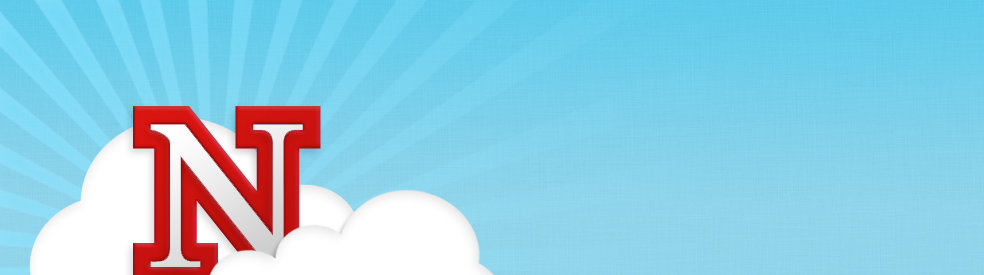
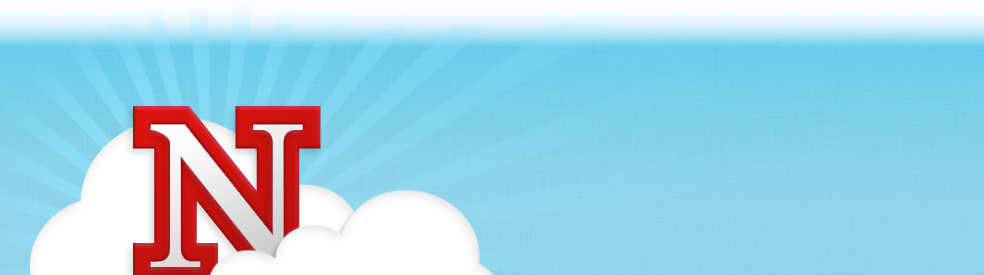
New box header image, other tweet tweaks

Changed region(s): [[0.0, 0.0, 1.0, 0.1745]]

diff --git a/sharedcode/twitter.css b/sharedcode/twitter.css
@@ -68,6 +68,7 @@ a.moreButton:hover {
 	background-image:url(../images/twitter_header.jpg);
 	background-repeat:no-repeat;
 	border-bottom:2px solid #9E0202;
+	//border-top:2px solid #6abfe6;
 	height:275px;
 	margin-bottom:60px;
 	width:984px;
@@ -134,15 +135,15 @@ a.moreButton:hover {
 
 #maincontent {
 	background-color:#B70302;
-	margin:-20px -12px 0;
+	margin:-40px -12px 0;
 	width:984px;
 	z-index:0;
 	
 	/* HTML5 */
-	box-shadow: 0px 1px 5px #AAA;
-	-khtml-box-shadow: 0px 1px 5px #AAA;
-	-moz-box-shadow: 0px 1px 5px #AAA;
-	-webkit-box-shadow: 0px 1px 5px #AAA;
+	box-shadow: 0px 275px 5px #AAA;
+	-khtml-box-shadow: 0px 275px 5px #AAA;
+	-moz-box-shadow: 0px 275px 5px #AAA;
+	-webkit-box-shadow: 0px 275px 5px #AAA;
 }
 
 #maincontent h4 {

diff --git a/index.php b/index.php
@@ -105,18 +105,18 @@ if (isset($_GET['page'])) {
           
          <div class="tweetBox">
            <ul class="wdn_tabs">
-   				<li><a href="#main">Tweets</a></li>
+   				<li><a href="#timeline">Tweets</a></li>
    				<li class="last"><a href="#search">#UNL</a></li>
-                <li style="visibility:hidden;"><a href="#orgs"></a></li>
+                <li style="visibility:hidden;"><a href="#accounts"></a></li>
 			</ul>
             <div class="wdn_tabs_content">
-                <div id="main">
+                <div id="timeline">
     				<?php echo Tweetgater_Display::timeline($page); ?>
                 </div>
                 <div id="search">
                     <?php echo Tweetgater_Display::search('#unl', $page); ?>
                 </div> 
-                <div id="orgs">
+                <div id="accounts">
                     <?php echo Tweetgater_Display::accounts(); ?>
                 </div>             
             </div>

diff --git a/inc/Tweetgater/Display.php b/inc/Tweetgater/Display.php
@@ -35,7 +35,7 @@ class Tweetgater_Display
         if ($error == '') {
 			$ret .= '<div class="tweetHeader">'
 				 . '<h2>Tweets from UNL Community</h2>'
-				 . '<a href="#orgs">&rarr; <span>See all accounts</span></a>' 
+				 . '<a href="#accounts">&rarr; <span>See all accounts</span></a>' 
 				 . '</div>'
                  .  '<div style="clear:both;"></div>'
 			;
@@ -88,7 +88,7 @@ class Tweetgater_Display
         $ret = '';
         
         if ($error == '') {
-            $ret .= '<h2 class="tweetHeader">' . count($friends) . ' Organizations are Tweeting</h2>'
+            $ret .= '<h2 class="tweetHeader">' . count($friends) . ' Accounts are Tweeting</h2>'
 				 .  '<div style="clear:both;"></div>';
             
             $i = 0; 
